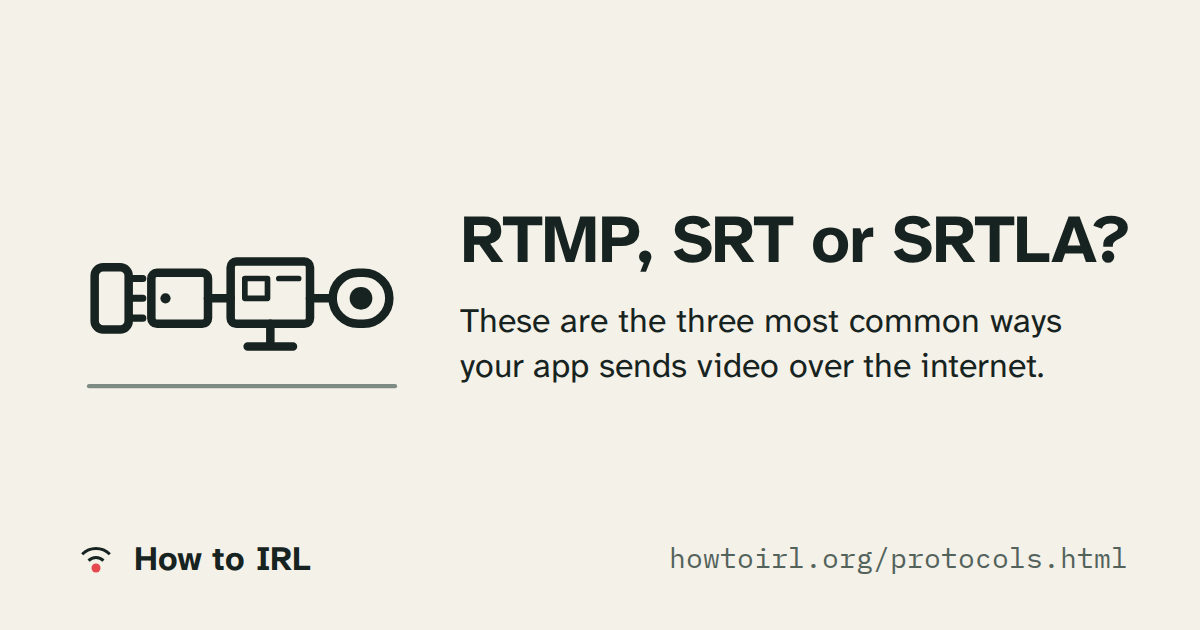
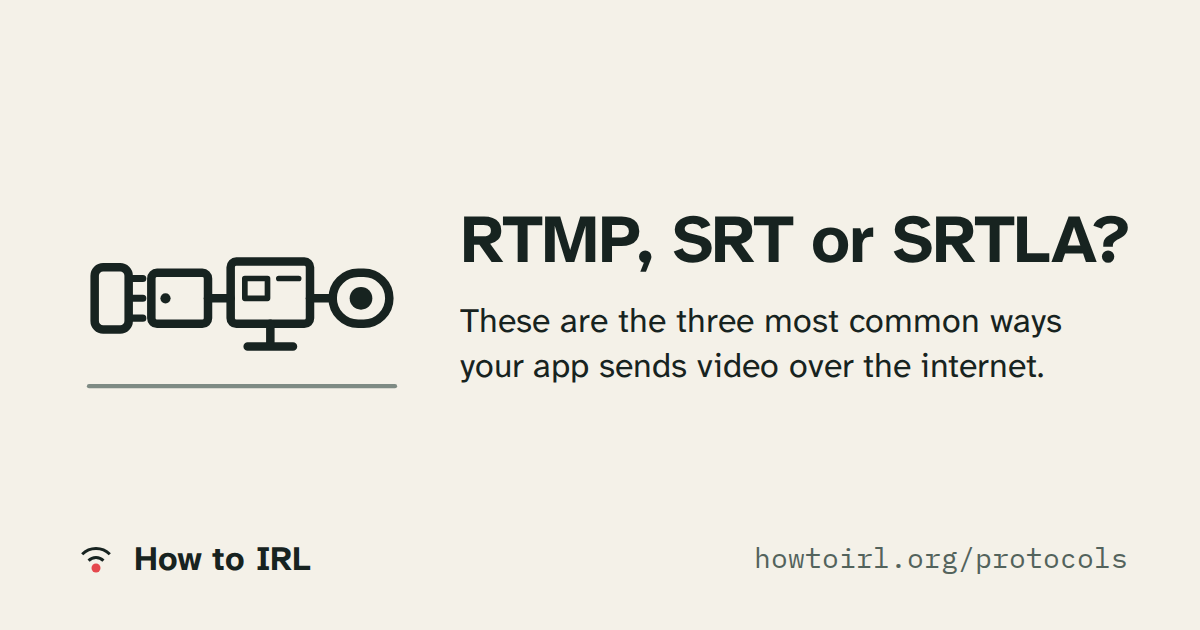
Serve pages at addresses without .html (#30)

Changed region(s): [[0.555, 0.8746, 0.9558, 0.9048]]

diff --git a/public/assets/site.js b/public/assets/site.js
@@ -41,9 +41,11 @@
     try { return window.localStorage; } catch (e) { return null; }
   }
 
+  // A moved page's data-moved names the page file it moved to; pages are served without ".html", the home page at "./".
   function movedUrl(target, hash) {
     if (!/^[a-z0-9-]+\.html$/.test(target || "")) return null;
-    return target + (/^#[A-Za-z0-9_-]+$/.test(hash || "") ? hash : "");
+    var page = target.replace(/\.html$/, "");
+    return (page === "index" ? "./" : page) + (/^#[A-Za-z0-9_-]+$/.test(hash || "") ? hash : "");
   }
 
   // The phone platform an answer's iPhone/Android switch starts on; iPhone when the visitor's isn't offered or known.
@@ -1113,7 +1115,7 @@
       }
       var target = h.row ? document.getElementById(h.row) : null;
       var tabName = h.tab || (target && panels[1].contains(target) ? "guides" : "help");
-      if (h.open && !apps[h.open]) { window.location.replace("links.html#" + h.open); return; }
+      if (h.open && !apps[h.open]) { window.location.replace("links#" + h.open); return; }
       tab(tabName);
       render();
       if (target && target !== panels[0]) {

diff --git a/.github/scripts/verify-deploy.py b/.github/scripts/verify-deploy.py
@@ -3,7 +3,9 @@
     python3 .github/scripts/verify-deploy.py <dist> <manifest.json> <base url> [--noindex]
 
 manifest.json is what the server printed after unpacking (path -> sha256).
-Each file is then fetched from <base url> and compared. Exits 1 on any difference.
+Each file is then fetched from <base url> and compared. Pages are fetched at their
+address without ".html" (x.html at /x, index.html at /), and their old ".html"
+address must answer with a redirect there. Exits 1 on any difference.
 With --noindex (previews), robots.txt must disallow everything and every page must
 carry an X-Robots-Tag noindex header instead; the server answers robots.txt itself.
 """
@@ -13,6 +15,7 @@ import os
 import sys
 import time
 import urllib.error
+import urllib.parse
 import urllib.request
 
 
@@ -34,6 +37,30 @@ def fetch_with_headers(url):
 
 def fetch(url):
     return fetch_with_headers(url)[0]
+
+
+def address(path):
+    """Where a built file is served: pages without ".html", the home page at "", other files at their path."""
+    if path == "index.html" or path.endswith("/index.html"):
+        return path[: -len("index.html")]
+    return path[: -len(".html")] if path.endswith(".html") else path
+
+
+class _NoRedirect(urllib.request.HTTPRedirectHandler):
+    def redirect_request(self, *args, **kwargs):
+        return None
+
+
+def redirect_target(url):
+    """The absolute address an old URL redirects to, or None when it answers without a redirect."""
+    req = urllib.request.Request(url, headers={"User-Agent": "site-deploy-check", "Cache-Control": "no-cache"})
+    try:
+        with urllib.request.build_opener(_NoRedirect).open(req, timeout=20):
+            return None
+    except urllib.error.HTTPError as e:
+        if e.code in (301, 308) and e.headers.get("Location"):
+            return urllib.parse.urljoin(url, e.headers["Location"])
+        return None
 
 
 def check_noindex(base):
@@ -63,10 +90,11 @@ def main(dist, manifest_path, base, *flags):
     for path, digest in sorted(want.items()):
         if noindex and path == "robots.txt":
             continue
-        url = base.rstrip("/") + "/" + urllib.request.quote(path)
+        url = base.rstrip("/") + "/" + urllib.request.quote(address(path))
+        old = base.rstrip("/") + "/" + urllib.request.quote(path) if address(path) != path else None
         for attempt in range(4):
             try:
-                if hashlib.sha256(fetch(url)).hexdigest() == digest:
+                if hashlib.sha256(fetch(url)).hexdigest() == digest and (old is None or redirect_target(old) == url):
                     break
             except (urllib.error.URLError, OSError):
                 pass

diff --git a/shared/addresses.py b/shared/addresses.py
@@ -1,0 +1,48 @@
+"""Page addresses without ".html".
+
+Pages stay files on disk (`phone-setup.html`) and are served at `/phone-setup`; the home page is `/`. The server
+answers an old address ending in ".html" with a 301 to the clean one. Sources may keep writing `phone-setup.html`:
+`clean_links` rewrites links to the two sites' pages in the finished HTML, so every page links to the address a reader
+sees. Links to other sites, assets and data files are left alone.
+"""
+import re
+
+DOMAINS = ('howtoirl.org', 'irlcommons.org')
+_DOMAIN = '|'.join(re.escape(d) for d in DOMAINS)
+_PAGE = r'(?:[a-z0-9-]+/)*[a-z0-9-]+'
+
+
+def address(name: str) -> str:
+    """The path of a page file, without the leading slash: `index.html` -> ``, `phone-setup.html` -> `phone-setup`."""
+    if name == 'index.html' or name.endswith('/index.html'):
+        return name.removesuffix('index.html')
+    return name.removesuffix('.html')
+
+
+def url(domain: str, name: str) -> str:
+    """The full address of a page: `https://howtoirl.org/phone-setup`."""
+    return f'https://{domain}/{address(name)}'
+
+
+def _relative(m: re.Match) -> str:
+    page = address(m['page'] + '.html')
+    return f'{m["attr"]}="{page or "./"}{m["rest"]}'
+
+
+def _absolute(m: re.Match) -> str:
+    return m['site'] + address(m['page'] + '.html')
+
+
+def _encoded(m: re.Match) -> str:
+    return m['site'] + address(m['page'] + '.html').replace('/', '%2F')
+
+
+def clean_links(html: str) -> str:
+    """Links to pages of the two sites, at their clean addresses: `href="glossary.html#bonding"` becomes
+    `href="glossary#bonding"`, `href="index.html"` becomes `href="./"`, and `https://howtoirl.org/help.html` (also
+    URL-encoded, as in "Suggest an edit" links) loses its ".html"."""
+    html = re.sub(rf'(?P<attr>href|data-copy)="(?P<page>{_PAGE})\.html(?P<rest>[#?"])', _relative, html)
+    html = re.sub(rf'(?P<site>https://(?:{_DOMAIN})/)(?P<page>{_PAGE})\.html(?![\w.-])', _absolute, html)
+    html = re.sub(rf'(?P<site>https%3A%2F%2F(?:{_DOMAIN})%2F)(?P<page>[a-z0-9-]+)\.html(?![\w.-])', _encoded, html,
+                  flags=re.I)
+    return html

diff --git a/scripts/setup.py b/scripts/setup.py
@@ -7,6 +7,7 @@ import html, json, re, subprocess, pathlib, sys
 ROOT = pathlib.Path(__file__).resolve().parents[1]
 sys.path.insert(0, str(ROOT / 'shared'))
 import render as r
+from addresses import address
 
 KEYS = ('id', 'class', 'kind', 'role', 'hosting', 'part', 'platforms', 'tags')
 LIST_FIELDS = {'part', 'platforms', 'tags'}
@@ -185,7 +186,7 @@ SITE = 'https://howtoirl.org/'
 
 
 def page(aid: str) -> str:
-    """Each answer is a page of its own, at the answer's id."""
+    """Each answer is a page of its own, at the answer's id: the file `<id>.html`, served at `/<id>`."""
     return f'{aid}.html'
 
 
@@ -368,8 +369,8 @@ def side_html(a: dict) -> str:
     for item in a.get('side', []):
         (k, v), = item.items()
         out.append(SIMS if k == 'sims' else f'<p class="{k}">{v}</p>')
-    url = SITE + page(a['id'])
-    out.append(f'<div class="send"><p>Link to send: <a href="{page(a["id"])}">howtoirl.org/<wbr>{page(a["id"])}</a></p>'
+    url = SITE + address(page(a['id']))
+    out.append(f'<div class="send"><p>Link to send: <a href="{page(a["id"])}">howtoirl.org/<wbr>{address(page(a["id"]))}</a></p>'
                f'<button type="button" class="copy-link" data-copy="{url}" hidden>Copy link for chat</button></div>')
     return '\n            '.join(out)
 

diff --git a/scripts/prepare.py b/scripts/prepare.py
@@ -3,6 +3,7 @@ import json, pathlib, sys, re
 ROOT=pathlib.Path(__file__).resolve().parents[1]
 sys.path.insert(0,str(ROOT/'shared'))
 import render as r
+from addresses import address
 sys.path.insert(0,str(ROOT/'scripts'))
 import setup as setup_answers
 import share
@@ -65,7 +66,7 @@ authored=[{'name':n,**m} for n,m in setup_answers.load_yaml(ROOT/'src/pages.yaml
 (ROOT/'.generated/share.json').write_text(json.dumps(share.manifest(authored+answer_meta,rendered,setup,cfg),ensure_ascii=False,indent=1))
 # The sitemap lists every page in site.json.
 (ROOT/'public/sitemap.xml').write_text('<?xml version="1.0" encoding="UTF-8"?>\n<urlset xmlns="http://www.sitemaps.org/schemas/sitemap/0.9">\n'
- +''.join(f'  <url><loc>https://{cfg["domain"]}/{"" if n=="index.html" else n}</loc></url>\n' for n in cfg['pages'])+'</urlset>\n')
+ +''.join(f'  <url><loc>https://{cfg["domain"]}/{address(n)}</loc></url>\n' for n in cfg['pages'])+'</urlset>\n')
 (ROOT/'.generated').mkdir(exist_ok=True)
 (ROOT/'.generated/content.json').write_text(json.dumps(rendered,ensure_ascii=False))
 if 'links.html' in json.loads((ROOT/'site.json').read_text())['pages']:

diff --git a/scripts/share.py b/scripts/share.py
@@ -8,6 +8,9 @@ scripts/share-images.mjs renders its cards into public/assets/share/. The image 
 changed card gets a new address and chat apps fetch it again instead of showing their cached copy."""
 import hashlib, html, pathlib, re, sys
 
+sys.path.insert(0, str(pathlib.Path(__file__).resolve().parents[1] / 'shared'))
+from addresses import address  # noqa: E402
+
 ROOT = pathlib.Path(__file__).resolve().parents[1]
 SIZE = (1200, 630)
 SITE_CARD = 'assets/share/site.png'
@@ -42,7 +45,7 @@ def card(name: str, meta: dict, body: str, cards: dict, domain: str) -> dict:
                                        or first_sentence(meta['description']))
     drawn = re.search(r'^<div class="result-head">\s*<svg class="ill[^"]*"[^>]*><use href="#([a-z0-9-]+)"', head)
     icon = meta.get('share_icon') or (drawn[1] if drawn else home.get('icon', ''))
-    url = f'{domain}/' + ('' if name == 'index.html' else name)
+    url = f'{domain}/' + address(name)
     return {'kind': 'page', 'page': name, 'title': plain(h1[1]), 'line': line, 'icon': icon, 'url': url}
 
 

diff --git a/scripts/finish.py b/scripts/finish.py
@@ -1,0 +1,16 @@
+"""Runs after `astro build`: every built page in dist/ links the addresses pages are served at, without ".html".
+
+Content, components and page metadata keep writing `phone-setup.html`; this rewrites the finished HTML once, so links,
+the canonical and og:url, alternate languages and the "Suggest an edit" address all lose their ".html"
+(shared/addresses.py). The sitemap and share cards use the same addresses (scripts/prepare.py, scripts/share.py)."""
+import pathlib, sys
+
+ROOT = pathlib.Path(__file__).resolve().parents[1]
+sys.path.insert(0, str(ROOT / 'shared'))
+from addresses import clean_links  # noqa: E402
+
+for path in sorted((ROOT / 'dist').rglob('*.html')):
+    text = path.read_text()
+    clean = clean_links(text)
+    if clean != text:
+        path.write_text(clean)

diff --git a/README.md b/README.md
@@ -45,9 +45,19 @@ selects by that tag, or when a note's service has left its block. A daily job
 (`.github/workflows/data-bump.yml`) pins the newest stable npm release of IRL Commons, runs
 every check and opens a pull request.
 
-Each answer is a page of its own, `<answer id>.html`, with the home page's header and footer and its own
+Each answer is a page of its own, `<answer id>.html` at `/<answer id>`, with the home page's header and footer and its own
 title and description. A new answer needs its page in `site.json` (the build stops without it).
 Old links to an answer on the home page (`/#second-network`) still land.
+
+## Addresses
+
+Pages are built as files (`phone-setup.html`) and served without the extension: `https://howtoirl.org/phone-setup`,
+the home page at `/`. An old address ending in `.html`, and `/index`, answers with a permanent redirect (301) to the
+clean one, query kept, so existing links keep working. Content and components may still link `phone-setup.html#step`:
+after `astro build`, `scripts/finish.py` runs `shared/addresses.py` over the finished pages, so every link, canonical
+and edit address for a page of either site is written without `.html`. The sitemap and share cards use the same
+addresses, and `npm test` fails if a page links an old address. `npm run serve` serves and redirects the same way as
+the host, and the deploy check fetches each page at its clean address and its redirect from the old one.
 
 ## Link previews
 
@@ -78,7 +88,7 @@ to that list when the page change is ready. The build rejects missing ids.
 
 `shared/` is the same versioned folder in both site repositories: rendering
 functions, calculator formula, thumbnail attribution and the data-use model.
-Shared version: 1.2.10. Changes should be copied to the sibling site in the same
+Shared version: 1.2.11. Changes should be copied to the sibling site in the same
 review. Vendoring this small folder keeps either repository independently
 buildable without a third package release. Styles and self-hosted fonts are
 identical; one first-party script adds theme choice, search, the calculator and
